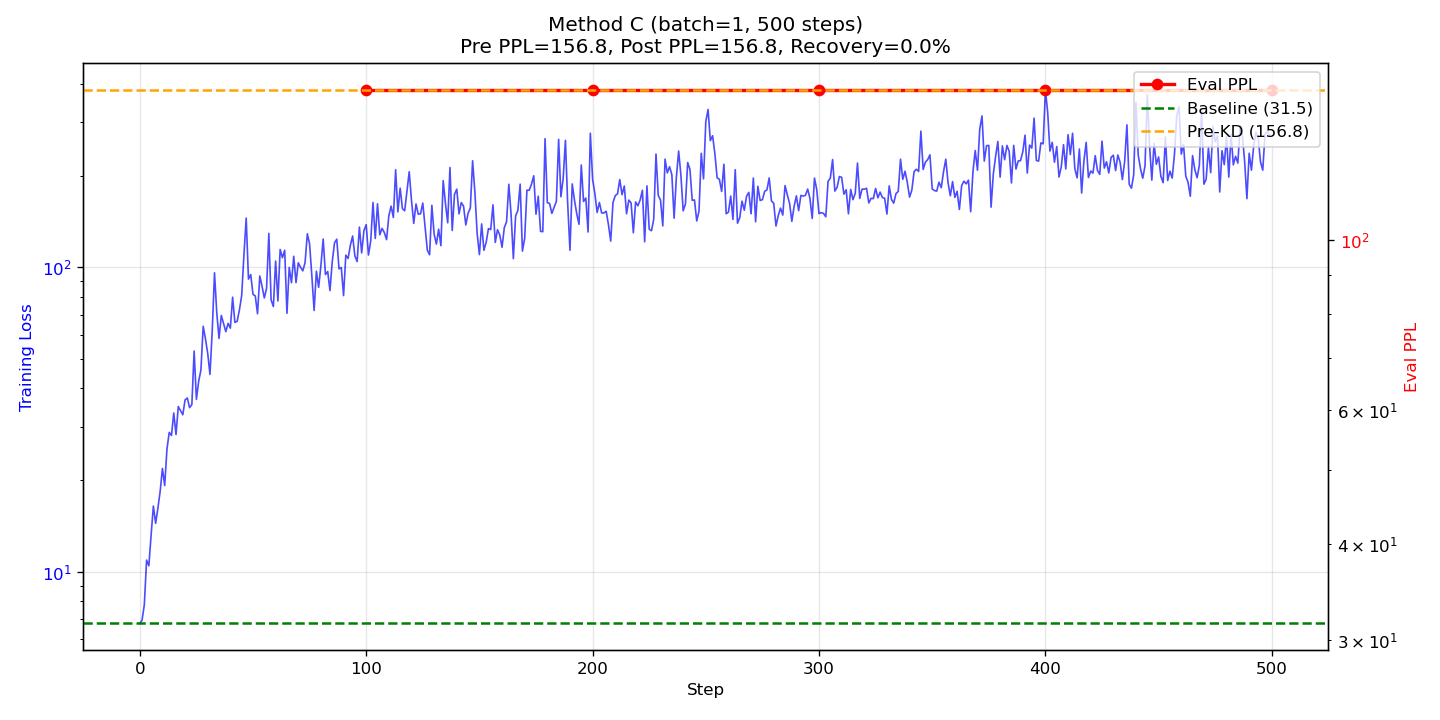
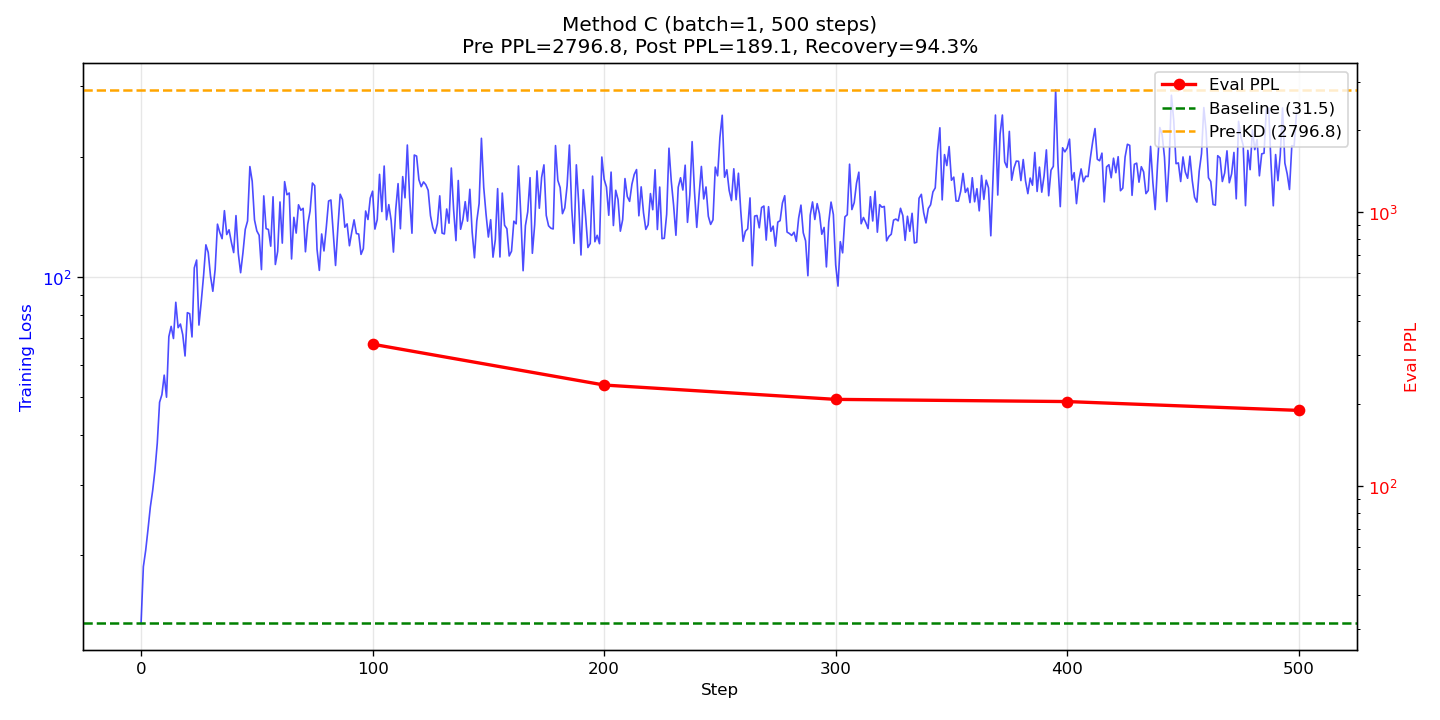
feat(benchmark): record successful svd_linear_attention on distilbert-sst2 (Acc: 79.36%, F1: 0.7821)

diff --git a/Docs/content/compressions/svd_linear.md b/Docs/content/compressions/svd_linear.md
@@ -308,7 +308,7 @@ Combining low-rank decomposition with uniform scalar quantization yields ultra-h
 | Model | Dataset | Status | Baseline Acc | Compressed Acc | Δ Acc | F1 Score | Comp Rate | Compressed Layers | Checkpoint | Date |
 | :--- | :--- | :---: | :---: | :---: | :---: | :---: | :---: | :---: | :---: | :---: |
 | **distilbert-sst2** | ag_news | `PASS` | 70.70% | **36.30%** | -34.40% | 0.2689 | 1.20x | 0 | [svd-linear-attention-distilbert-sst2-svd-linear](https://huggingface.co/Hooshaai/svd-linear-attention-distilbert-sst2-svd-linear) | 2026-09-16 |
-| **distilbert-sst2** | sst2 | `PASS` | 90.60% | **84.75%** | -5.85% | 0.8504 | 1.20x | 0 | [svd-linear-attention-distilbert-sst2-svd-linear](https://huggingface.co/Hooshaai/svd-linear-attention-distilbert-sst2-svd-linear) | 2026-09-27 |
+| **distilbert-sst2** | sst2 | `PASS` | 90.60% | **79.36%** | -11.24% | 0.7821 | 1.25x | 0 | N/A | 2026-09-30 |
 | **distilbert-mnli-full** | mnli | `PASS` | 81.80% | **53.90%** | -27.90% | 0.5017 | 1.20x | 0 | N/A | 2026-09-19 |
 | **distilbert-agnews-full** | ag_news | `PASS` | 94.30% | **89.40%** | -4.90% | 0.8903 | 1.20x | 0 | N/A | 2026-09-19 |
 | **roberta-sst2** | sst2 | `PASS` | 94.38% | **72.94%** | -21.44% | 0.7424 | 1.18x | 0 | [svd-linear-attention-roberta-sst2-svd-linear](https://huggingface.co/Hooshaai/svd-linear-attention-roberta-sst2-svd-linear) | 2026-09-27 |
